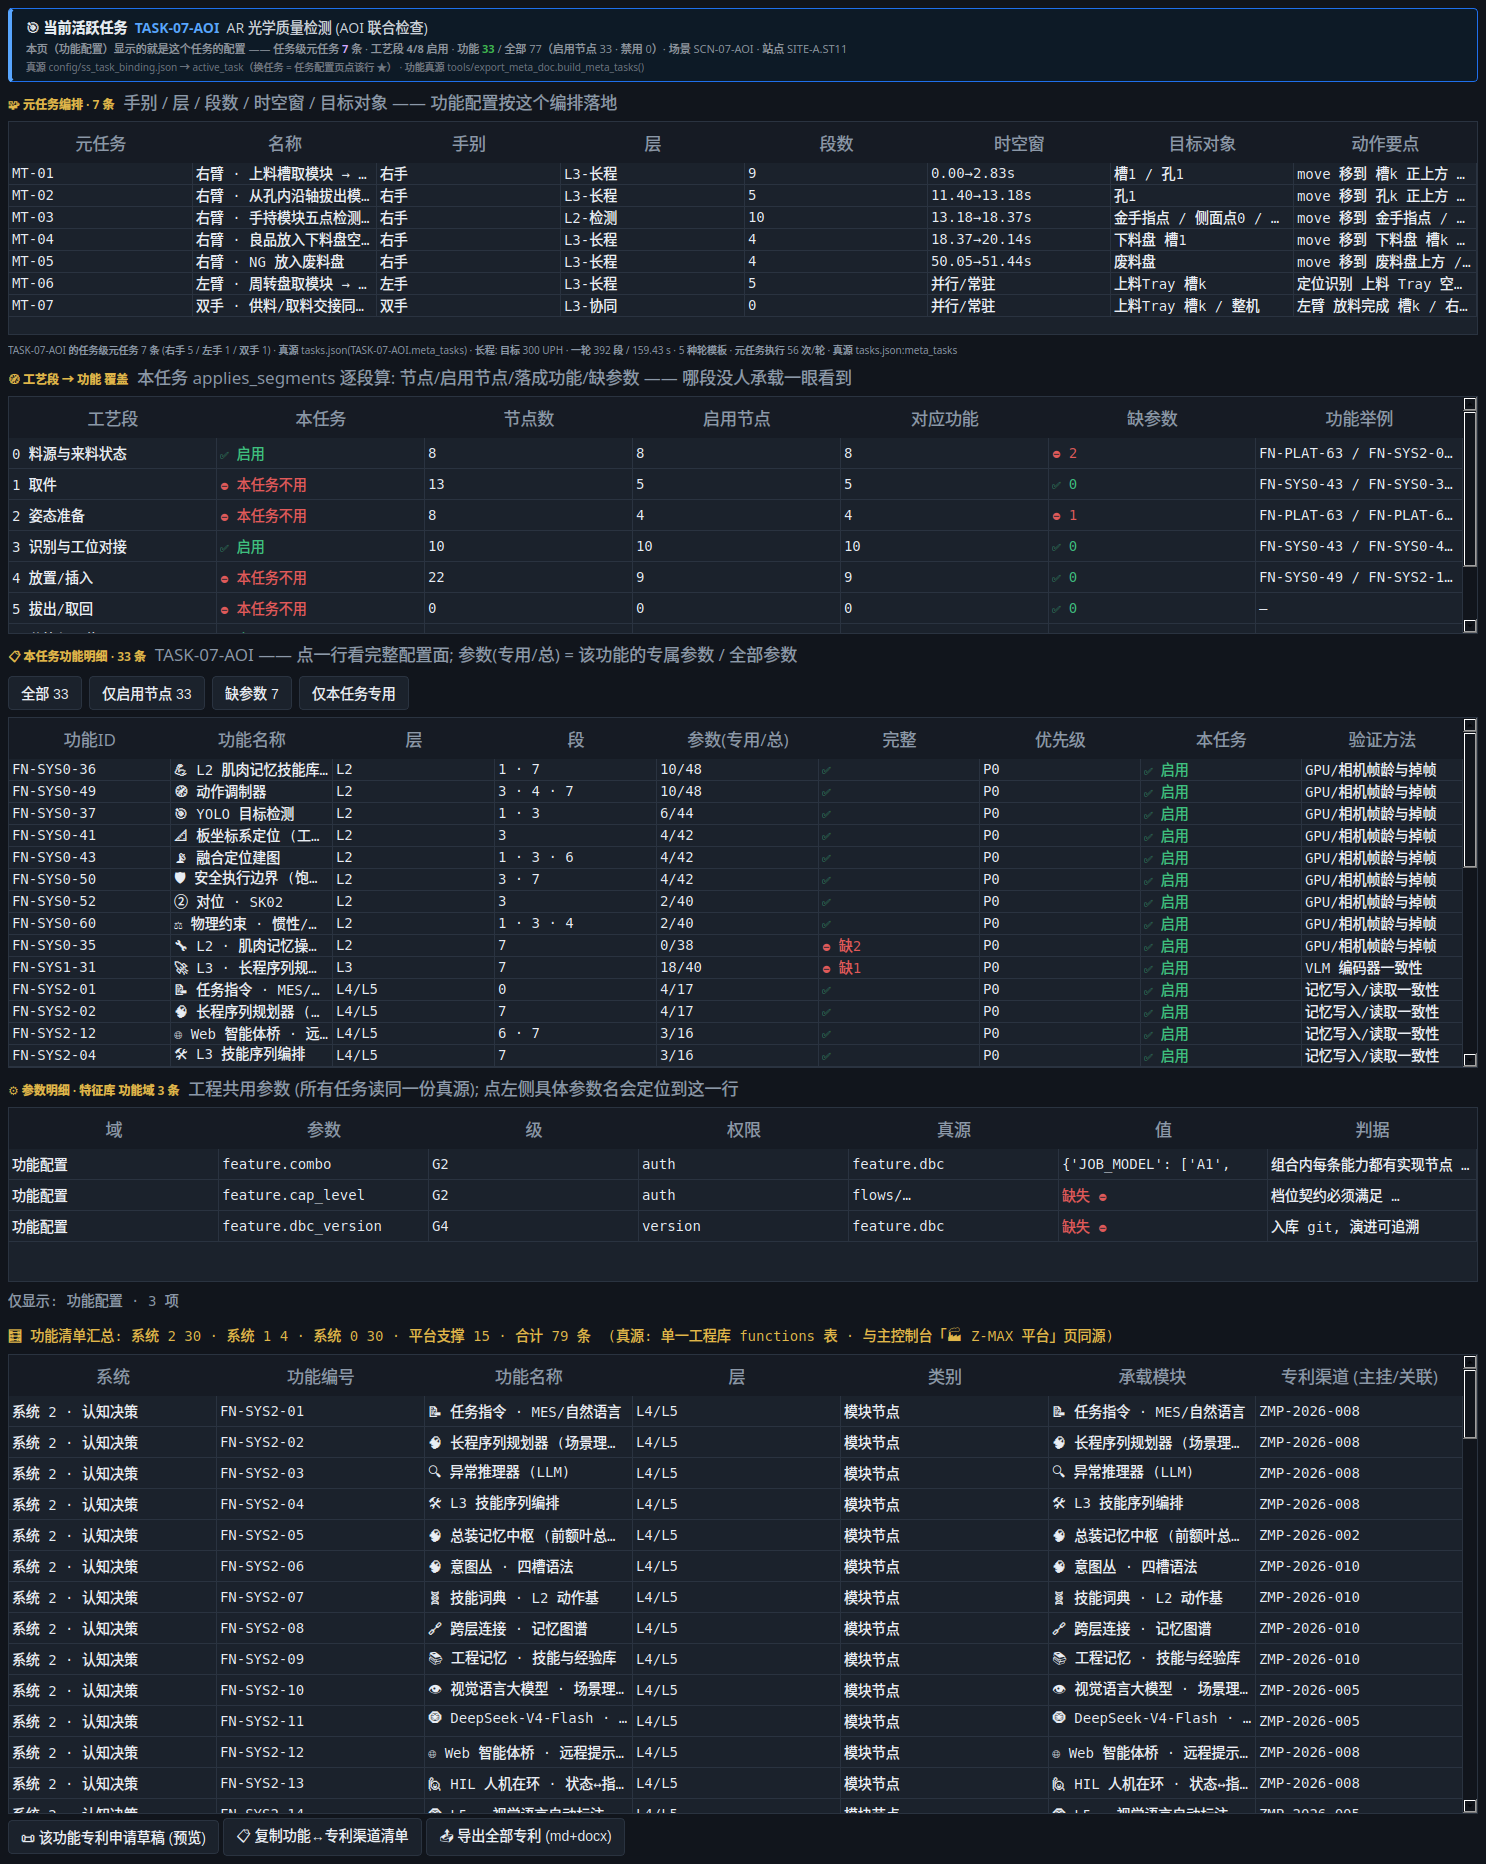
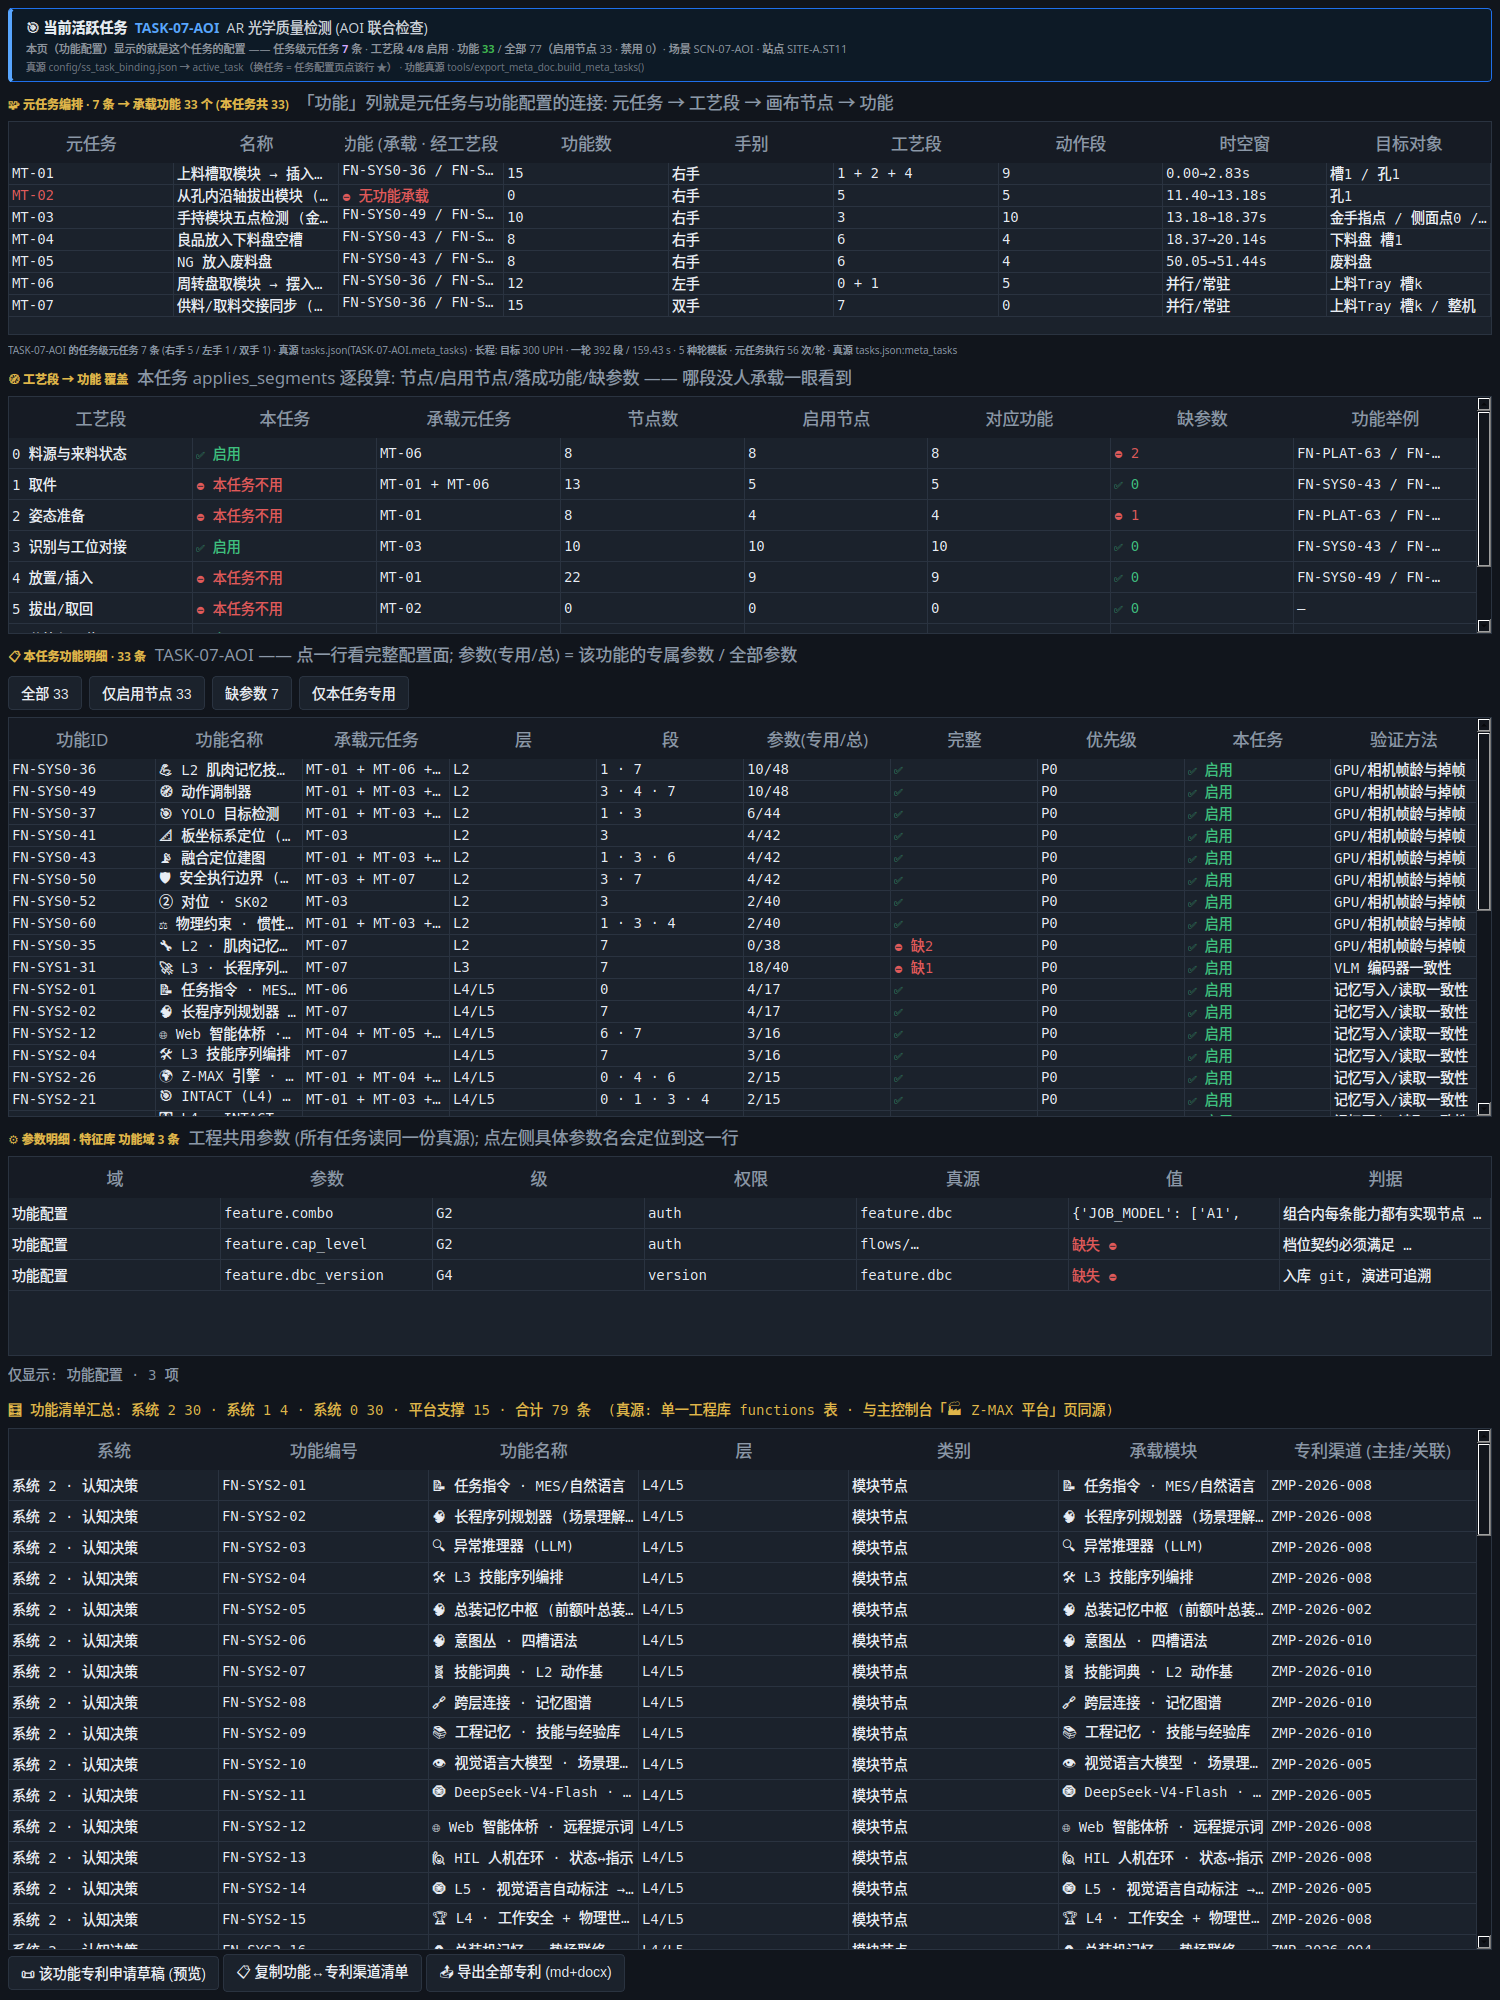
feat(config): 功能配置把「元任务 ↔ 功能」用工艺段接上 —— 元任务表加「功能」列 + 功能明细加「承载元任务」列
老倪: 「功能配置, 怎么和元任务连接呢? 在功能配置里, 看到元任务了, 但是一个列, 应该是功能, 哪里去了?」

- 连接链: 元任务 --(MT_SEG8: 按动作性质归工艺段)--> 工艺段 --(segment_node_map: 段→节点)--> 功能(node_id)
  这是两边唯一公共轴 (功能只带 node_id, 元任务只带动作段, 无直接外键), 不做关键词猜配;
  MT_SEG8 归属是作者口径, 依据逐条写在 ss_meta_task_ar.py 注释里
- 元任务编排表新增 3 列: 功能(承载 · 经工艺段) / 功能数 / 工艺段 —— 点功能列有全部功能名 tooltip
- 工艺段覆盖表新增「承载元任务」列: 0←MT-06 · 1←MT-01+MT-06 · 2←MT-01 · 3←MT-03 · 4←MT-01 · 5←MT-02 · 6←MT-04+MT-05 · 7←MT-07
- 功能明细新增「承载元任务」列 (反向): 33 个功能每一个都能追到是哪条元任务在做
- 实测: 7 条元任务的功能列并集 = 本任务 33 个功能 (全覆盖); MT-02(拔出) 落段「5 拔出/取回」在该段→节点映射里
  没有落成本任务功能的节点 ⇒ 标 ⛔ 无功能承载 (真源缺口, 不静默)
- 判据 verify_config_active_task.py 39/39 (含并集=33、无承载如实标、两条反向列都在)

diff --git a/tools/gui/veh6_config_page.py b/tools/gui/veh6_config_page.py
@@ -205,6 +205,8 @@ def _task_level_meta(tid):
                           "targets": m.get("targets") or [],
                           "actions": m.get("actions") or [],
                           "segs": m.get("segs") or [],
+                          # 🧩 2026-10-28: 元任务 → 工艺段 (衔接功能配置的桥, 作者口径见 ss_meta_task_ar.MT_SEG8)
+                          "seg8": m.get("seg8") or [],
                           "occ": m.get("occurrences")})
         hs = {"R": sum(1 for x in items if x["hand"] == "R"),
               "L": sum(1 for x in items if x["hand"] == "L"),
@@ -338,6 +340,23 @@ def _task_seg_cover(tid=None):
                      "excluded": seg in (bt.get("excluded_segments") or []),
                      "fns": fs})
     return rows
+
+
+def _mt_funcs(tid=None):
+    """元任务 → 承载功能 (老倪 2026-10-28: 「功能配置, 怎么和元任务连接呢? 看到一个列, 应该是功能」)。
+
+    链路: 元任务 --(按动作性质)--> 工艺段(seg8) --(segment_node_map: 段→节点)--> 功能(node_id)。
+    这是两边**唯一**的公共轴 (功能带 node_id, 元任务带动作段, 两者没有直接外键), 所以不做关键词猜配。
+    返回每条 [dict(...任务级元任务字段..., "seg8": [...], "fns": [功能...], "n_fn": N)]。
+    """
+    tid = tid or _active_bind()[0]
+    funcs = _task_funcs(tid)
+    out = []
+    for m in _task_level_meta(tid)[0]:
+        seg8 = m.get("seg8") or []
+        fs = [f for f in funcs if set(f["segs"]) & set(seg8)]
+        out.append(dict(m, seg8=seg8, fns=fs, n_fn=len(fs)))
+    return out
 
 
 def _orders_list():
@@ -4575,18 +4594,45 @@ class ConfigCenterPage(QWidget):
         # ① 活跃任务
         lay.addWidget(self._active_banner(th, "功能配置"))
 
-        # ② 元任务编排 (该任务跑起来的那几条执行元任务)
-        lay.addWidget(_sec("🧩 元任务编排 · %d 条" % len(mts),
-                           "手别 / 层 / 段数 / 时空窗 / 目标对象 —— 功能配置按这个编排落地"))
+        # ② 元任务编排 —— **带「功能」列** (老倪 2026-10-28: 「功能配置, 怎么和元任务连接呢?
+        #    看到一个列, 应该是功能, 哪里去了?」) 连接方式 = 元任务 → 工艺段 → 画布节点 → 功能
+        mfx = _mt_funcs(tid)
+        n_fn_all = len({f["fn"] for m in mfx for f in m["fns"]})
+        lay.addWidget(_sec("🧩 元任务编排 · %d 条 → 承载功能 %d 个 (本任务共 %d)" % (len(mfx), n_fn_all, len(funcs)),
+                           "「功能」列就是元任务与功能配置的连接: 元任务 → 工艺段 → 画布节点 → 功能"))
         r2 = []
-        for m in mts:
+        for m in mfx:
             tw = m.get("t_win")
             twn = ("%.2f→%.2fs" % (tw[0], tw[1])) if (tw and tw[0] is not None) else "并行/常驻"
-            r2.append([m.get("id"), m.get("name"), HAND_CN.get(m.get("hand") or "", "—(真源未标)"),
-                       m.get("layer") or "—", m.get("n_seg") or 0, twn,
-                       " / ".join(m.get("targets") or []) or "—",
-                       (" / ".join(m.get("actions") or []) or "—")[:52]])
-        t2 = _mk_table(["元任务", "名称", "手别", "层", "段数", "时空窗", "目标对象", "动作要点"], r2, th)
+            fids = [f["fn"] for f in m["fns"]]
+            ftxt = (" / ".join(fids[:3]) + ((" 等 %d 个" % len(fids)) if len(fids) > 3 else "")
+                    if fids else "⛔ 无功能承载")
+            nm = (m.get("name") or "").replace("右臂 · ", "").replace("左臂 · ", "").replace("双手 · ", "")
+            r2.append([m.get("id"), nm, ftxt, m["n_fn"],
+                       HAND_CN.get(m.get("hand") or "", "未标"),
+                       " + ".join(sx.split(" ")[0] for sx in (m.get("seg8") or [])) or "—",
+                       m.get("n_seg") or 0, twn,
+                       " / ".join(m.get("targets") or []) or "—"])
+        t2 = _mk_table(["元任务", "名称", "功能 (承载 · 经工艺段)", "功能数", "手别",
+                        "工艺段", "动作段", "时空窗", "目标对象"], r2, th)
+        for r, m in enumerate(mfx):
+            _it = t2.item(r, 2)
+            if _it is not None:
+                _it.setToolTip("\n".join("%s %s" % (f["fn"], f["name"]) for f in m["fns"]) or "该元任务落在的工艺段下没有功能条目")
+            _it4 = t2.item(r, 0)
+            if _it4 is not None and m["n_fn"] == 0:
+                _it4.setForeground(QColor(th["C_RED"]))
+                _it4.setToolTip("工艺段「%s」在 段→节点 映射里没有落成本任务功能的节点 ⇒ 该元任务目前没有功能承载(真源缺口)"
+                                % " / ".join(m.get("seg8") or []))
+        # 反向: 功能 → 承载元任务
+        fn_mts = {}
+        for m in mfx:
+            for f in m["fns"]:
+                fn_mts.setdefault(f["fn"], []).append(m.get("id"))
+        mt_of_seg = {}
+        for m in mfx:
+            for sx in (m.get("seg8") or []):
+                mt_of_seg.setdefault(sx, []).append(m.get("id"))
         t2.setWordWrap(False)
         try:
             t2.verticalHeader().setDefaultSectionSize(22)
@@ -4603,10 +4649,11 @@ class ConfigCenterPage(QWidget):
         r3 = []
         for s in segg:
             mark = "✅ 启用" if s["applies"] else ("⛔ 本任务不用" if s["excluded"] else "· 未声明")
-            r3.append([s["seg"], mark, s["n_node"], s["n_on"], s["n_fn"],
+            r3.append([s["seg"], mark, " + ".join(mt_of_seg.get(s["seg"]) or []) or "⛔ 无元任务",
+                       s["n_node"], s["n_on"], s["n_fn"],
                        ("⛔ %d" % s["n_bad"]) if s["n_bad"] else "✅ 0",
                        " / ".join(f["fn"] for f in s["fns"][:4]) or "—"])
-        t3 = _mk_table(["工艺段", "本任务", "节点数", "启用节点", "对应功能", "缺参数", "功能举例"], r3, th)
+        t3 = _mk_table(["工艺段", "本任务", "承载元任务", "节点数", "启用节点", "对应功能", "缺参数", "功能举例"], r3, th)
         t3.setMinimumHeight(24 * max(3, len(r3)) + 46)
         lay.addWidget(t3)
 
@@ -4627,14 +4674,14 @@ class ConfigCenterPage(QWidget):
         r4 = []
         for f in funcs:
             segs = " · ".join(s.split(" ")[0] for s in (f["segs"] or [])) or "—"
-            r4.append([f["fn"], f["name"], f["layer"] or "—", segs,
+            r4.append([f["fn"], f["name"], " + ".join(fn_mts.get(f["fn"]) or []) or "⛔ 无", f["layer"] or "—", segs,
                        "%s/%s" % (f["n_spec"], f["n_par"]),
                        "✅" if f["complete"] else "⛔ 缺%d" % len(f["missing"]),
                        f["prio"] or "—",
                        "⛔ 禁用" if f["disabled"] else ("✅ 启用" if f["enabled"] else "—"),
                        (f["verify"] or "")[:46]])
-        t4 = _mk_table(["功能ID", "功能名称", "层", "段", "参数(专用/总)", "完整", "优先级", "本任务", "验证方法"],
-                       r4, th)
+        t4 = _mk_table(["功能ID", "功能名称", "承载元任务", "层", "段", "参数(专用/总)", "完整",
+                        "优先级", "本任务", "验证方法"], r4, th)
         t4.setWordWrap(False)
         try:
             t4.verticalHeader().setDefaultSectionSize(22)

diff --git a/tools/verify_config_active_task.py b/tools/verify_config_active_task.py
@@ -80,21 +80,47 @@ def main():
 
     ts = tables(wf)
     chk("②③④ 功能配置页有 5 张表(元任务/段/功能/参数…)", len(ts) >= 4, len(ts))
-    # ② 元任务编排表: 表头含 手别+时空窗, 行数=7
-    t_mt = next((t for t in ts if t.rowCount() == len(mts) and
-                 "手别" in t.horizontalHeaderItem(2).text()), None)
-    chk("② 元任务编排表 7 行 + 手别列", t_mt is not None,
-       ("%d 行" % t_mt.rowCount()) if t_mt else "没找到")
+    # ② 元任务编排表: 必须**有「功能」列** (老倪: 「看到一个列, 应该是功能, 哪里去了?」)
+    def _hidx(t, kw):
+        return next((c for c in range(t.columnCount())
+                     if kw in (t.horizontalHeaderItem(c).text() if t.horizontalHeaderItem(c) else "")), -1)
+
+    t_mt = next((t for t in ts if t.rowCount() == len(mts) and _hidx(t, "功能") >= 0
+                 and "元任务" in (t.horizontalHeaderItem(0).text() or "")), None)
+    chk("② 元任务编排表 7 行 + 有「功能」列", t_mt is not None,
+       ("%d 行 / 表头 %s" % (t_mt.rowCount(),
+                             [t_mt.horizontalHeaderItem(c).text() for c in range(t_mt.columnCount())]))
+       if t_mt else "没找到")
     if t_mt:
-        hands = [t_mt.item(r, 2).text() for r in range(t_mt.rowCount())]
-        chk("② 手别三种齐全(右手/左手/双手)",
-            {"右手", "左手", "双手"} <= set(hands), sorted(set(hands)))
-        chk("② 时空窗列非空(并行也算)", all(t_mt.item(r, 5).text() for r in range(t_mt.rowCount())))
+        def _eq(t, name):
+            return next((c for c in range(t.columnCount())
+                         if (t.horizontalHeaderItem(c).text() if t.horizontalHeaderItem(c) else "") == name), -1)
+        c_fn, c_n, c_hand, c_seg, c_tw = (_hidx(t_mt, "功能 (承载"), _eq(t_mt, "功能数"),
+                                          _eq(t_mt, "手别"), _eq(t_mt, "工艺段"), _eq(t_mt, "时空窗"))
+        hands = [t_mt.item(r, c_hand).text() for r in range(t_mt.rowCount())]
+        chk("② 手别三种齐全(右手/左手/双手)", {"右手", "左手", "双手"} <= set(hands), sorted(set(hands)))
+        chk("② 时空窗列非空(并行也算)", all(t_mt.item(r, c_tw).text() for r in range(t_mt.rowCount())))
+        segcol = [t_mt.item(r, c_seg).text() for r in range(t_mt.rowCount())]
+        chk("② 每条元任务都标了工艺段", all(segcol) and all("/" not in x for x in segcol), segcol)
+        # 功能列与真源一致: 并集必须覆盖本任务全部 33 个功能
+        mfx = V._mt_funcs(tid)
+        union = {f["fn"] for m in mfx for f in m["fns"]}
+        chk("② 元任务「功能」列并集 = 本任务 33 个功能", union == {f["fn"] for f in funcs},
+            "并集 %d / 33" % len(union))
+        n0 = [m.get("id") for m in mfx if m["n_fn"] == 0]
+        c0 = [t_mt.item(r, c_fn).text() for r in range(t_mt.rowCount()) if t_mt.item(r, c_n).text() == "0"]
+        chk("② 无功能承载的元任务如实标出(不静默)", all("⛔" in x for x in c0),
+            "零承载: %s → %s" % (n0, c0))
     # ③ 段覆盖表
     t_seg = next((t for t in ts if t.rowCount() == len(segs) and
                   "工艺段" in t.horizontalHeaderItem(0).text()), None)
     chk("③ 工艺段覆盖表 8 行", t_seg is not None, ("%d 行" % t_seg.rowCount()) if t_seg else "没找到")
     if t_seg:
+        cmt = next((c for c in range(t_seg.columnCount())
+                    if "承载元任务" in ((t_seg.horizontalHeaderItem(c).text() or ""))), -1)
+        chk("③ 段表有「承载元任务」列(再一条连接链)", cmt >= 0,
+            ("8 段承载: " + " | ".join("%s←%s" % (t_seg.item(r, 0).text(), t_seg.item(r, cmt).text())
+                                     for r in range(t_seg.rowCount()))) if cmt >= 0 else "缺列")
         marks = [t_seg.item(r, 1).text() for r in range(t_seg.rowCount())]
         chk("③ 4 启用 / 4 本任务不用", marks.count("✅ 启用") == 4 and marks.count("⛔ 本任务不用") == 4,
             marks)
@@ -106,6 +132,13 @@ def main():
         ids = [t_fn.item(r, 0).text() for r in range(t_fn.rowCount())]
         want = [f["fn"] for f in funcs]
         chk("④ 33 行与真源功能清单逐条一致", ids == want)
+        cm = _hidx(t_fn, "承载元任务")
+        chk("④ 功能明细有「承载元任务」列(反向连接)", cm >= 0,
+            [t_fn.horizontalHeaderItem(c).text() for c in range(t_fn.columnCount())])
+        if cm >= 0:
+            col = [t_fn.item(r, cm).text() for r in range(t_fn.rowCount())]
+            chk("④ 33 个功能每个都挂到元任务(无 ⛔ 无)", all(x and "⛔" not in x for x in col),
+                "样例: " + " · ".join(col[:3]))
         # ⑤ 过滤
         bad = sum(1 for f in funcs if not f["complete"])
         t_fn2 = t_fn

diff --git a/tools/ss_meta_task_ar.py b/tools/ss_meta_task_ar.py
@@ -60,6 +60,28 @@ def _target_of(kind, label, carry):
     return carry or "—"
 
 
+# ── 元任务 → 工艺段 (老倪 2026-10-28: 「功能配置, 怎么和元任务连接呢? 看到元任务了, 但是一个列, 应该是功能」) ──
+#   为什么要这一层: 功能级元任务(FN)只带 node_id, 元任务(MT)只带动作段 —— 两边没有直接外键。
+#   唯一能对上的公共轴 = **工艺段** (ss_task_binding.json 的 segment_node_map: 段 → 画布节点;
+#   功能清单的 node_id 也是画布节点)。所以: 元任务 --(按动作性质归段)--> 工艺段 --(段→节点)--> 功能。
+#   这份归属是**作者口径**(不是从数据里自动推出来的), 依据写在这行注释里:
+#     MT-01 取料+插入 = 段1 取件 + 段2 姿态准备(对准孔口) + 段4 放置/插入
+#     MT-02 拔出       = 段5 拔出/取回
+#     MT-03 AOI 五点   = 段3 识别与工位对接
+#     MT-04 良品放回   = 段6 分拣与回位
+#     MT-05 NG 废料    = 段6 分拣与回位
+#     MT-06 左臂摆盘   = 段0 料源与来料状态 + 段1 取件
+#     MT-07 交接同步   = 段7 节拍与循环
+MT_SEG8 = {
+    "MT-01": ["1 取件", "2 姿态准备", "4 放置/插入"],
+    "MT-02": ["5 拔出/取回"],
+    "MT-03": ["3 识别与工位对接"],
+    "MT-04": ["6 分拣与回位"],
+    "MT-05": ["6 分拣与回位"],
+    "MT-06": ["0 料源与来料状态", "1 取件"],
+    "MT-07": ["7 节拍与循环"],
+}
+
 # ── 元任务模板 ────────────────────────────────────────────────────────────────
 # 手别口径 (真源, 不是猜的):
 #   · MT-01..MT-05 = 段表 sim_insert.json 的那条**单臂插拔循环** ⇒ 右手;
@@ -322,6 +344,7 @@ def main():
                 targets.append(r["target"])
         item = {"id": mid, "name": m["name"], "hand": m["hand"], "hand_cn": HAND_CN[m["hand"]],
                 "layer": m["layer"], "segments": m["segments"], "actions": m["actions"],
+                "seg8": MT_SEG8.get(mid) or [],
                 "prompt": m["prompt"], "source": "", "in_392": m["in_392"],
                 "occurrences": len(ex) if m["in_392"] else None,
                 "t_s": round(first["segs"][0].get("t") or 0.0, 3) if first else None,
